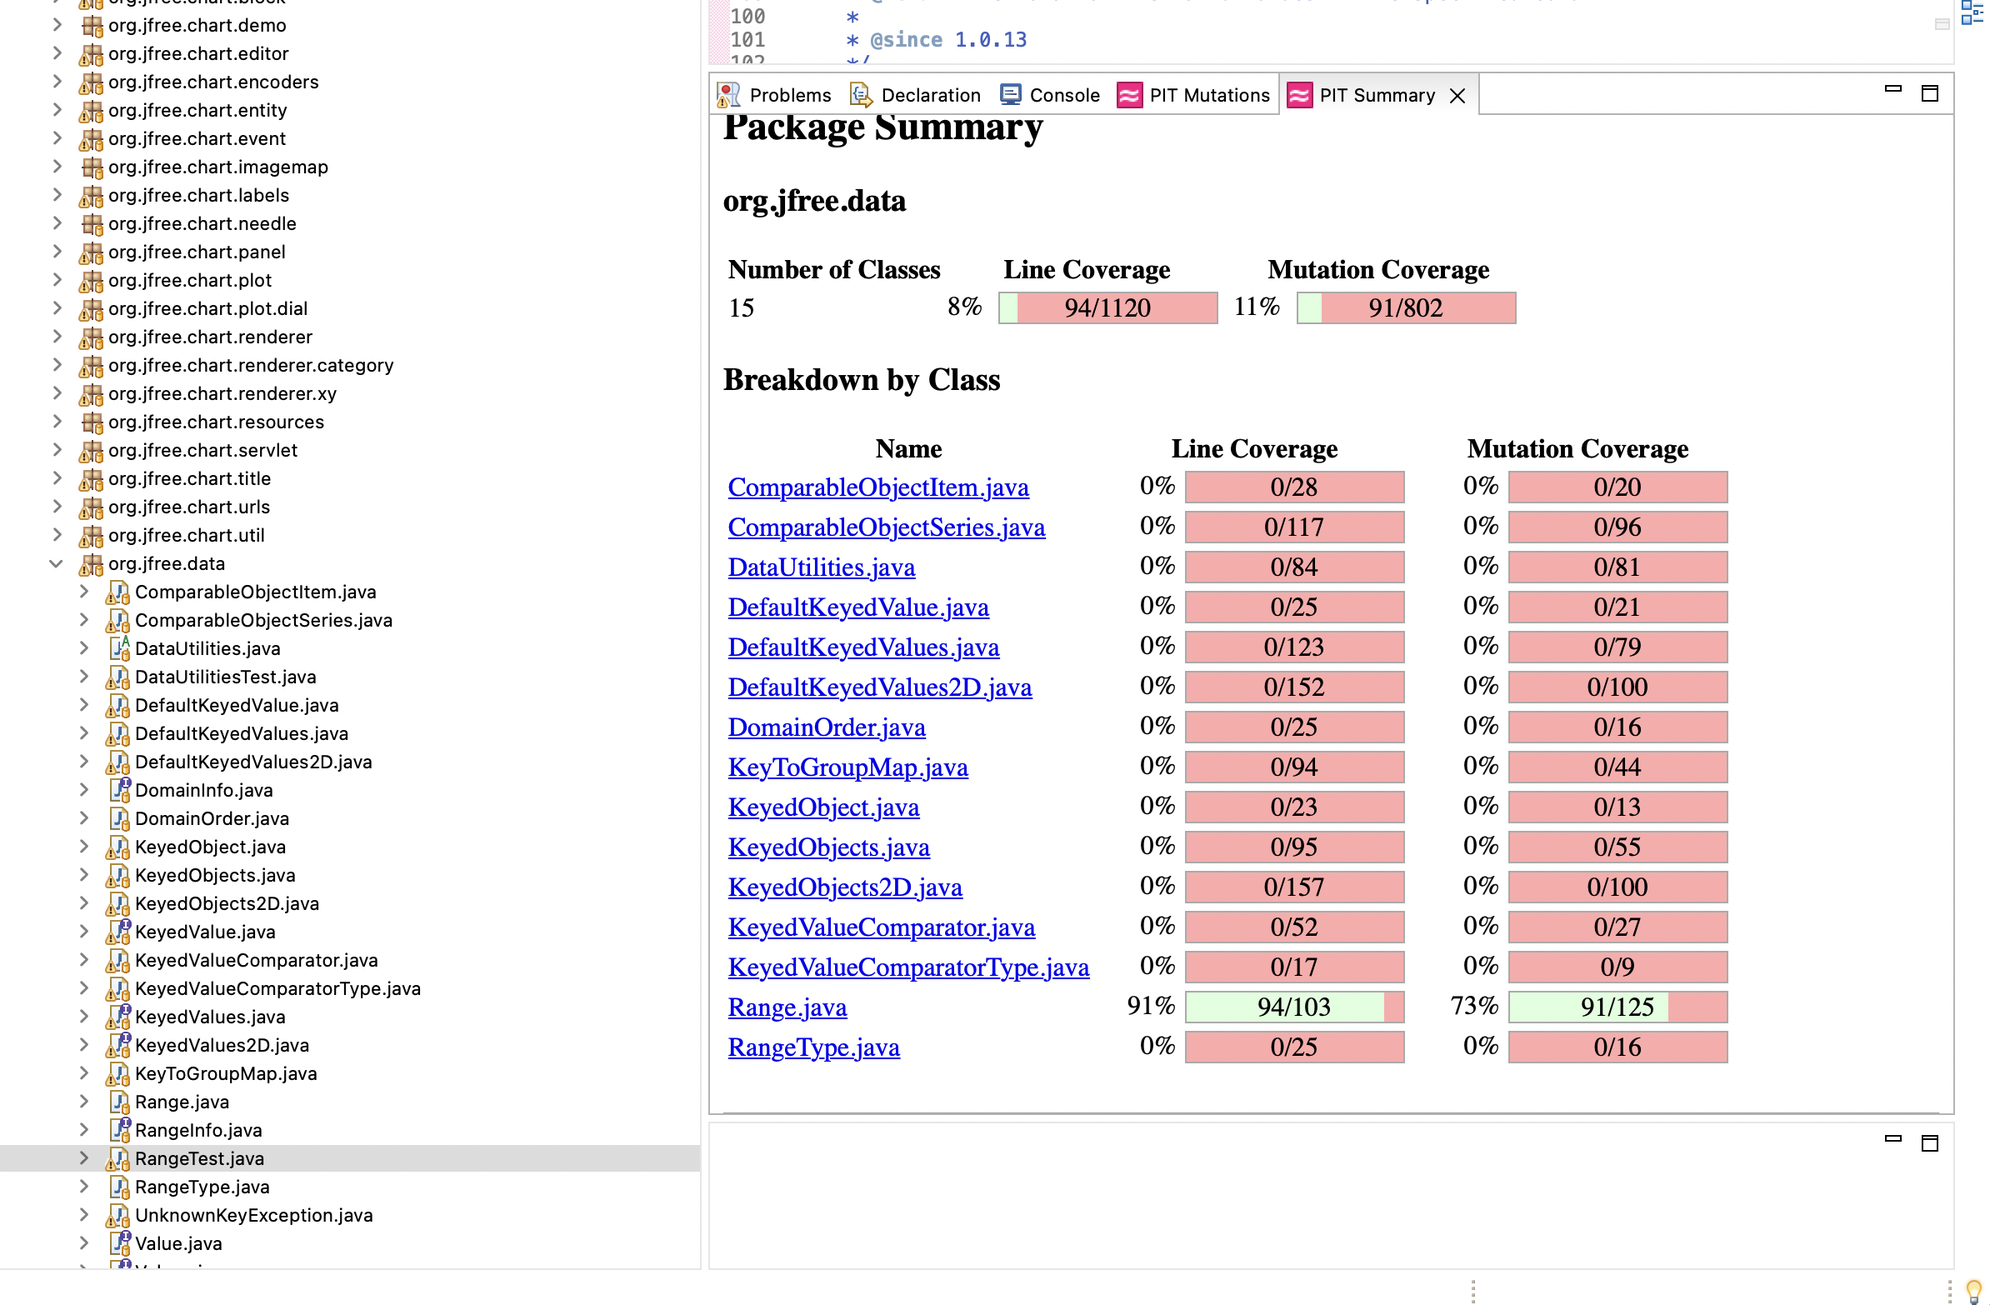
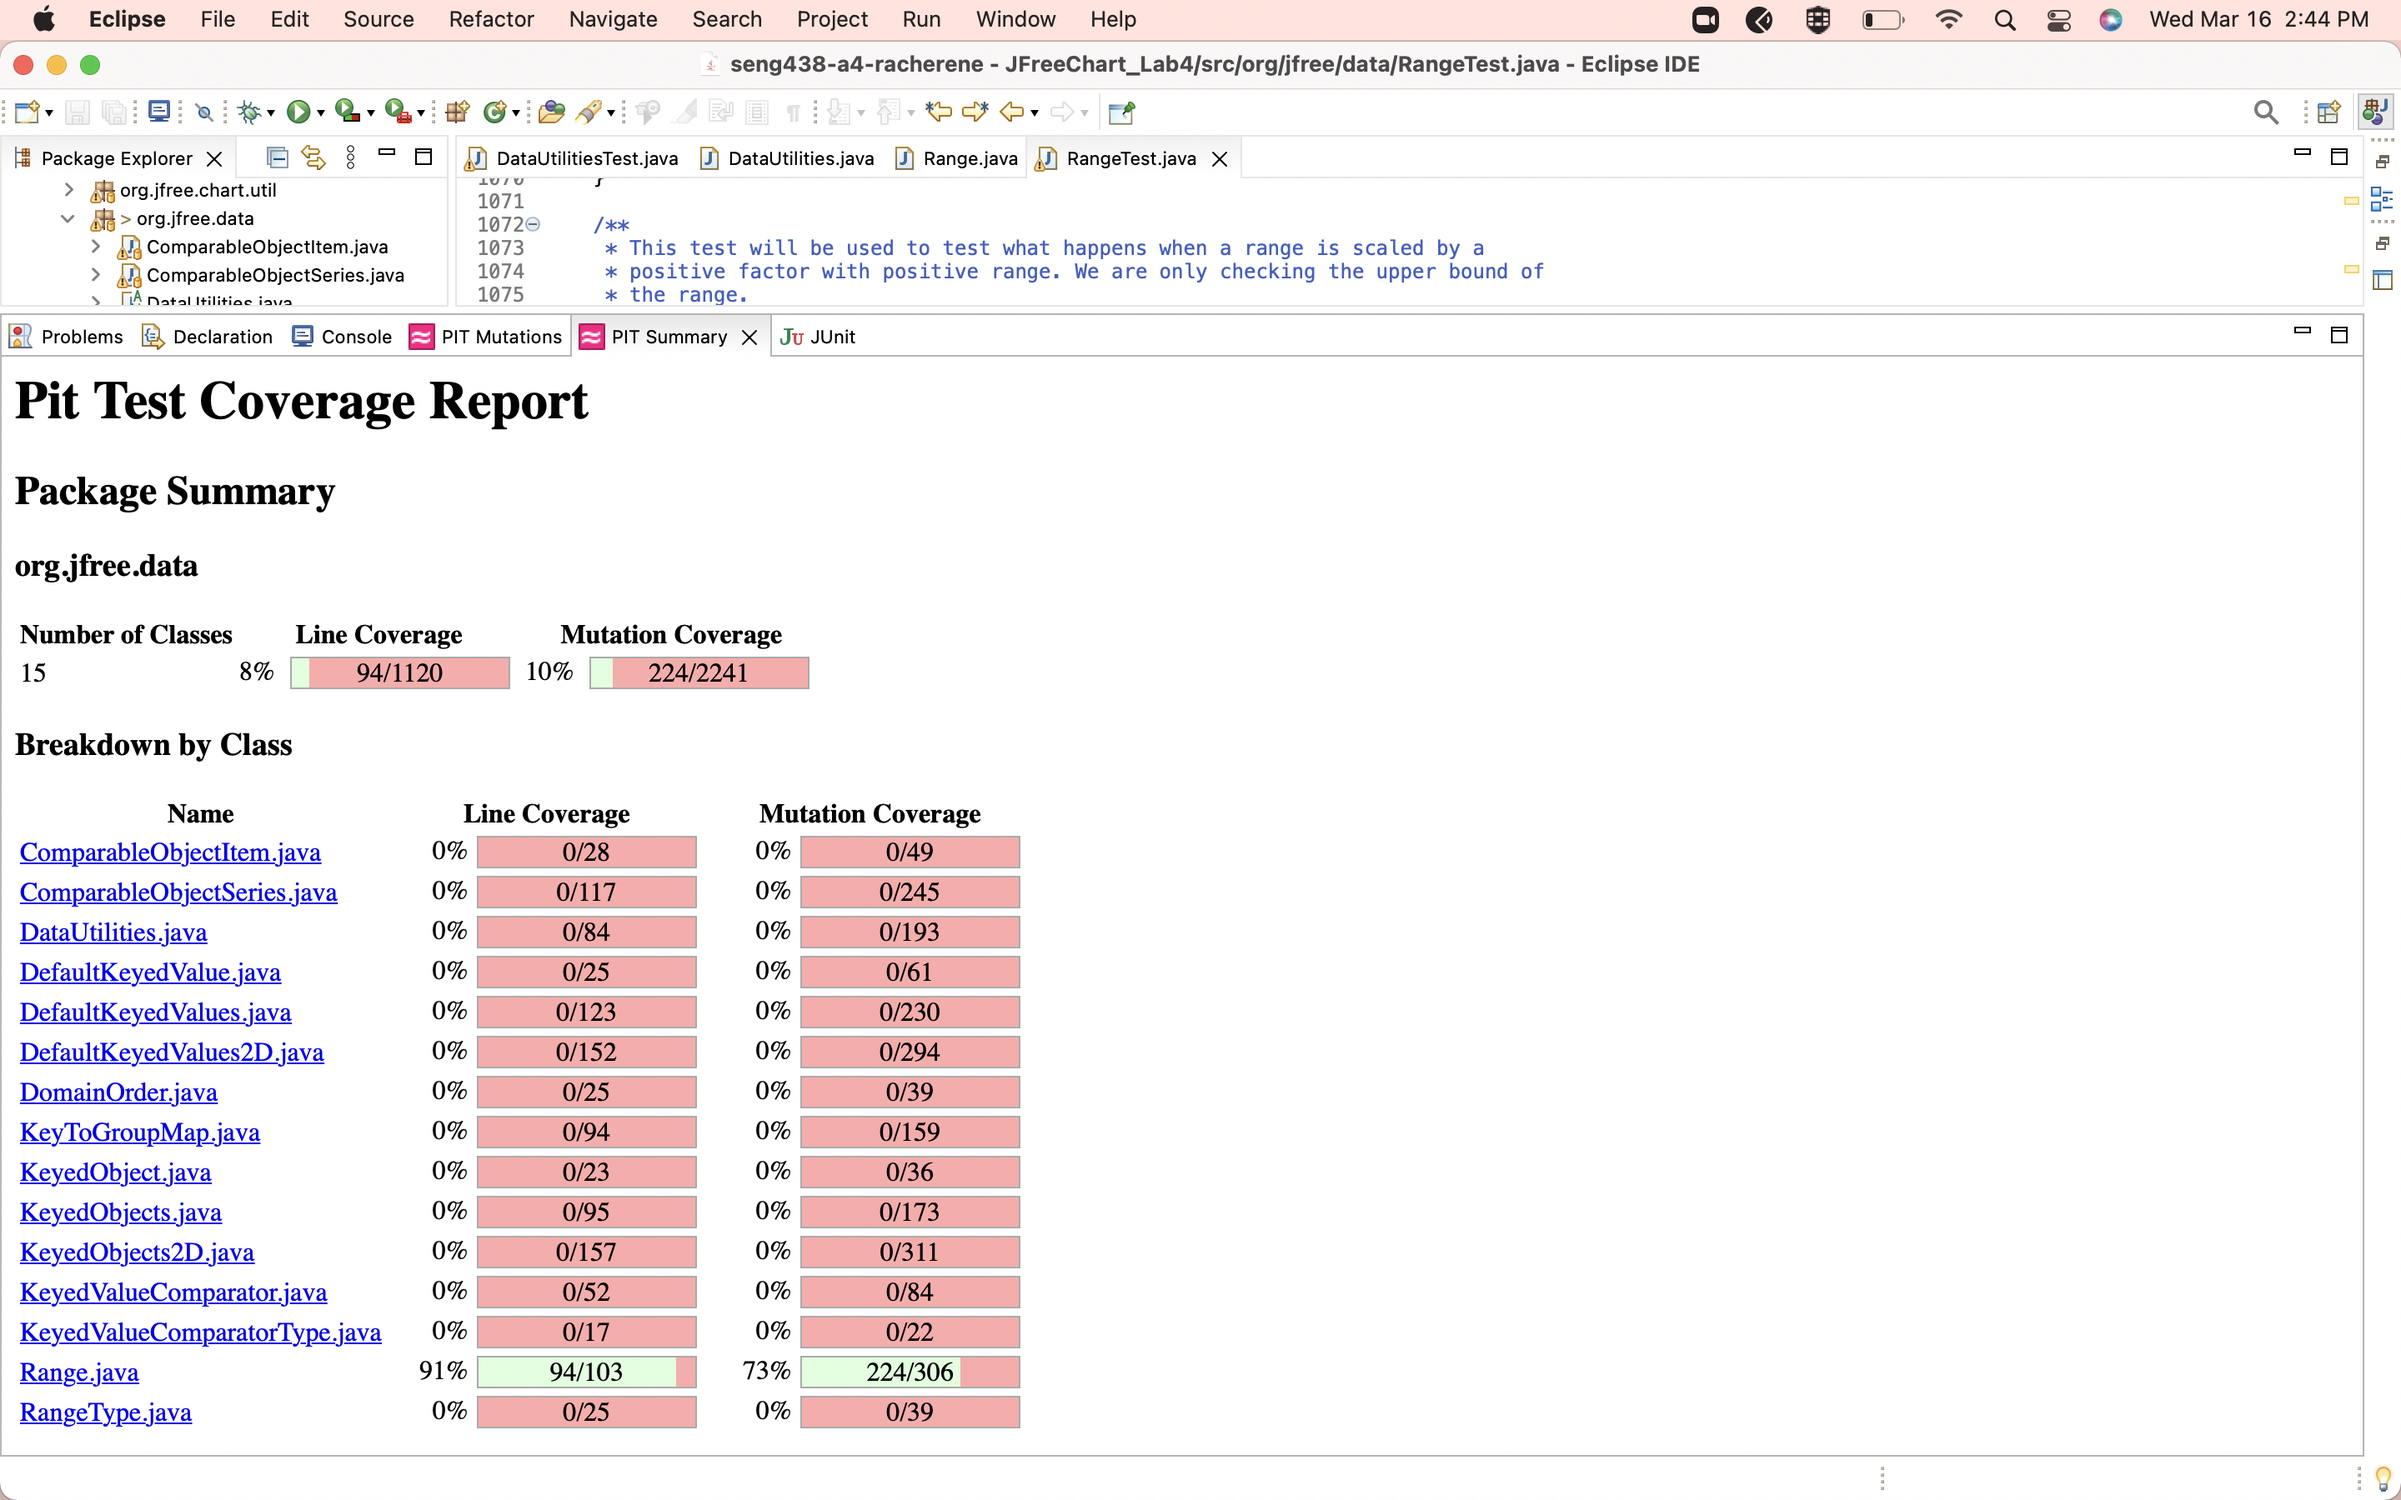
added updated all mut Range

diff --git a/JFreeChart_Lab4/src/org/jfree/data/DataUtilitiesTest.java b/JFreeChart_Lab4/src/org/jfree/data/DataUtilitiesTest.java
@@ -1570,6 +1570,67 @@ public class DataUtilitiesTest {
 		// columns which are correct in this object only 1.
 		assertEquals("The row total is adding up to 0.0", 0.0, result, .000000001d);
 	}
+//	
+//	/**
+//	 * This test will check the equals() function to see if two equal (and same
+//	 * length) double 2D arrays can be passed in as arguments and are found to be
+//	 * equal.
+//	 */
+//	@Test
+//	public void testEqualityOfEqualArraysEqual() {
+//		double[][] array1 = { {1}, {1}};
+//		double[][] equalArray = array1;
+//
+//		boolean equality = DataUtilities.equal(array1, equalArray);
+//
+//		assertEquals("The equality should be true", true, equality);
+//	}
+//	
+//	/**
+//	 * This test will check the equals() function to see if two equal (and same
+//	 * length) double 2D arrays can be passed in as arguments and are found to be
+//	 * equal.
+//	 */
+//	@Test
+//	public void testEqualityOfEqualArraysDifLength() {
+//		double[][] array1 = { {1}, {1}};
+//		double[][] equalArray = { };
+//
+//		boolean equality = DataUtilities.equal(array1, equalArray);
+//
+//		assertEquals("The equality should be false", false, equality);
+//	}
+//	
+//	/**
+//	 * This test will check the equals() function to see if two equal (and same
+//	 * length) double 2D arrays can be passed in as arguments and are found to be
+//	 * equal.
+//	 */
+//	@Test
+//	public void testEqualityOfEqualArraysDifLengthBGreater() {
+//		double[][] array1 = { };
+//		double[][] equalArray = { {1}, {1}};
+//
+//		boolean equality = DataUtilities.equal(array1, equalArray);
+//
+//		assertEquals("The equality should be false", false, equality);
+//	}
+//	
+//	
+//	/**
+//	 * This test will check the equals() function to see if two equal (and same
+//	 * length) double 2D arrays can be passed in as arguments and are found to be
+//	 * equal.
+//	 */
+//	@Test
+//	public void testEqualityOfEqualArraysEmpty() {
+//		double[][] array1 = {};
+//		double[][] equalArray = { };
+//
+//		boolean equality = DataUtilities.equal(array1, equalArray);
+//
+//		assertEquals("The equality should be true", true, equality);
+//	}
 	// -----------------------------------------------------------------------------------------
 	// End of Lab 4
 	// -----------------------------------------------------------------------------------------
